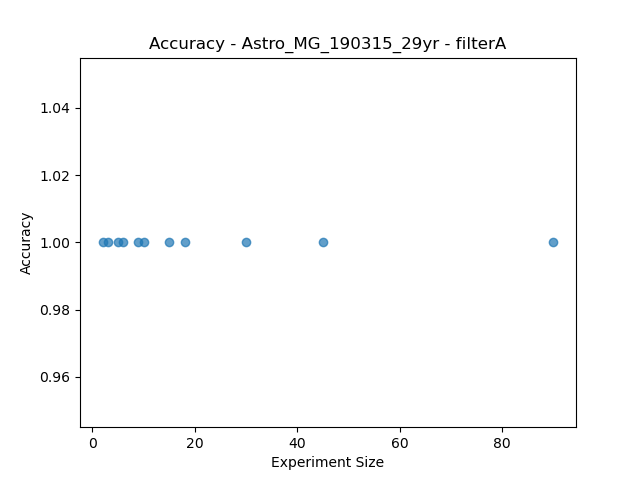
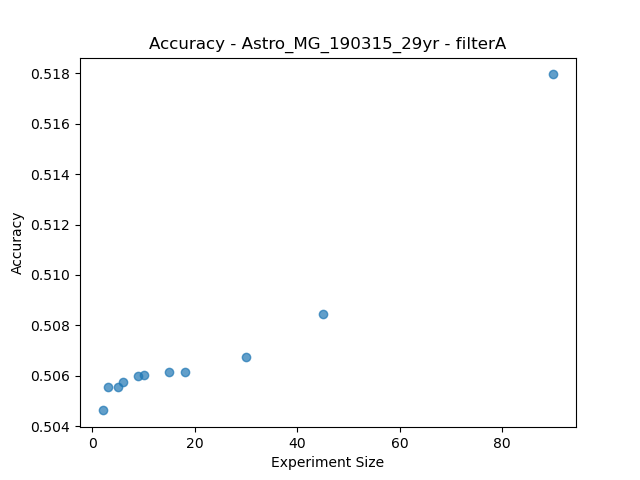
add plots

diff --git a/experiments/2023-07-25/plot_pseudo_bulk_results.py b/experiments/2023-07-25/plot_pseudo_bulk_results.py
@@ -16,6 +16,7 @@ batch_21_DCC = pd.read_csv(batch_21_DCC, sep="\t", header=None, names=["bin1_id"
 batch_29_DCC = pd.read_csv(batch_29_DCC, sep="\t", header=None, names=["bin1_id", "bin2_id", "LogFC_ground_truth"])
 
 def create_plots(batch, filter_type):
+    print(batch, " ", filter_type)
     if batch == "Astro_MG_190315_21yr":
         batch_df = batch_21_DCC
     else:
@@ -33,14 +34,15 @@ def create_plots(batch, filter_type):
         print(df.columns)
         df = df[['start1', 'start2', 'logFC', 'FDR']]
         df = df.rename(columns={"start1": "bin1_id", "start2": "bin2_id"})
-        df = df.merge(batch_df, on=["bin1_id", "bin2_id"])
+        df = df.merge(batch_df, on=["bin1_id", "bin2_id"], how="outer")
         df = df[['logFC', 'LogFC_ground_truth']]
-
+        print(df)
         FN = df["logFC"].isna().sum()
         FP = df["LogFC_ground_truth"].isna().sum()
         TP = df.shape[0] - FN
         TN = df.shape[0] - FP
         accuracy = (TP + TN) / (TP + TN + FP + FN)
+        print(FN, FP, TP, TN, accuracy)
         # Create a new DataFrame with the row data
         new_row = pd.DataFrame({"TP": [TP], "TN": [TN], "FP": [FP], "FN": [FN], "Experiment Size": [e], "Accuracy": [accuracy]})
 
